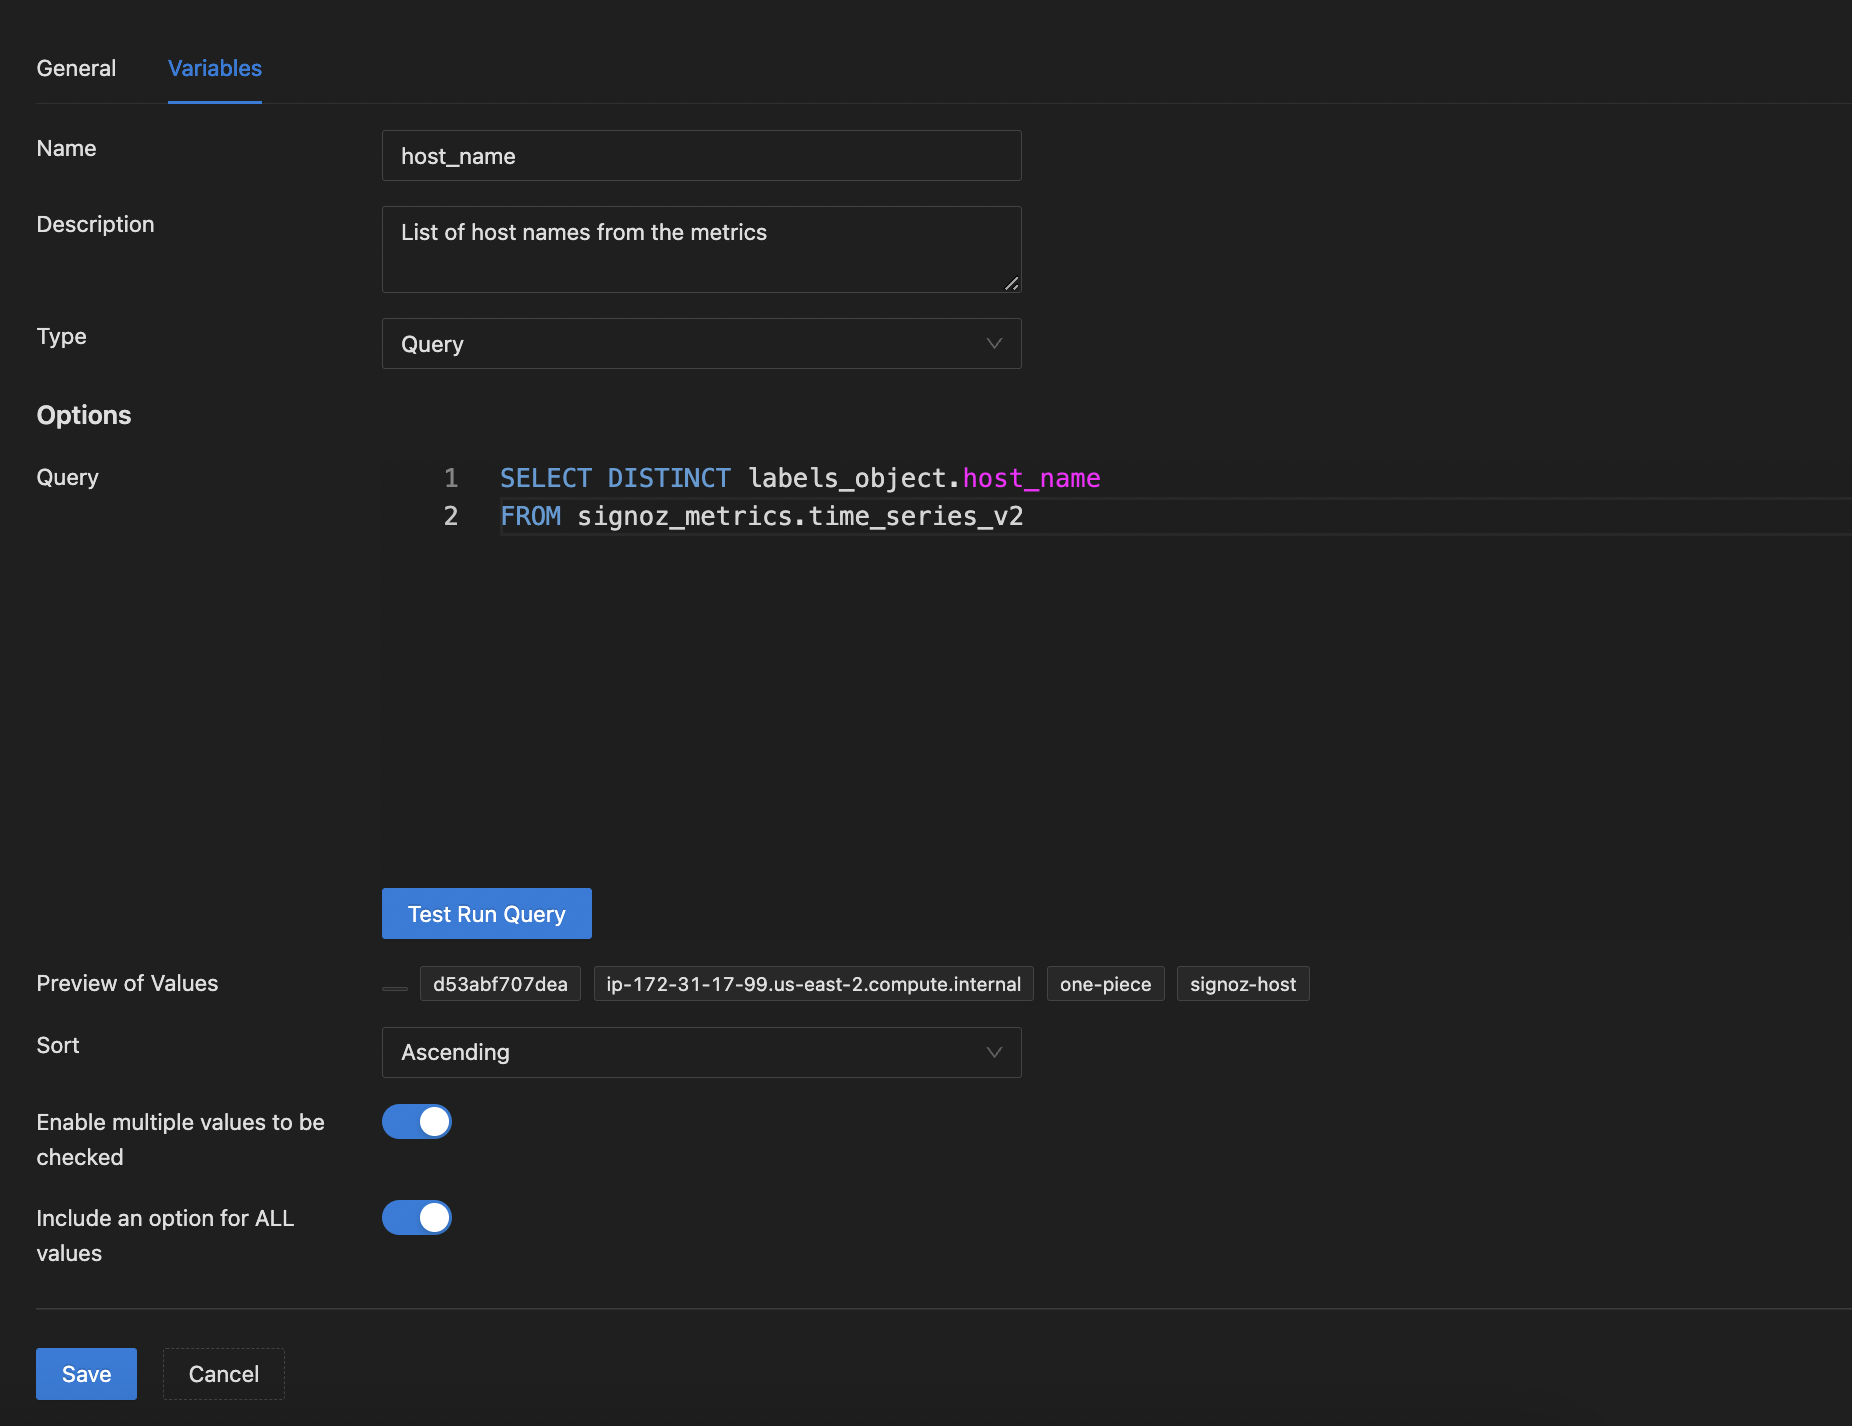
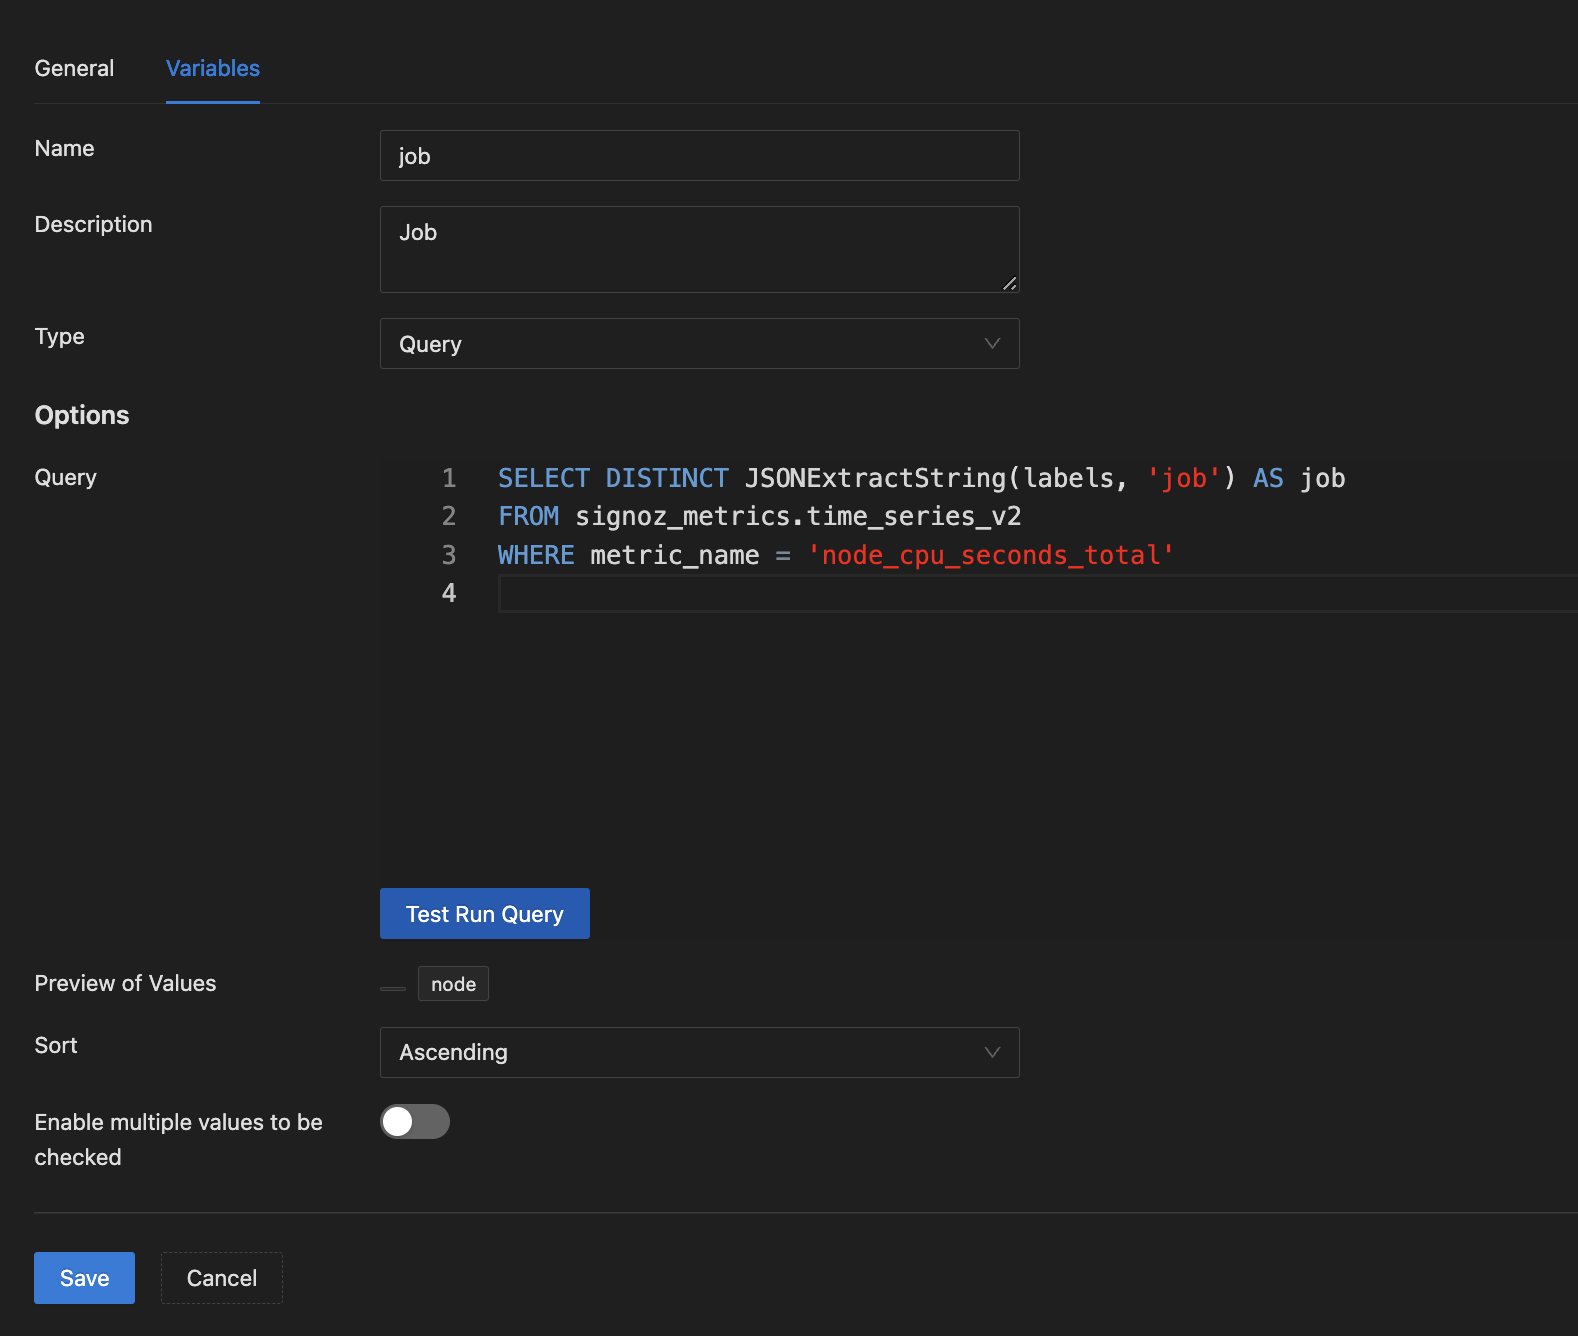
Update manage variables queries, usage and some content (#612)

diff --git a/docs/userguide/manage-variables.md b/docs/userguide/manage-variables.md
@@ -14,66 +14,67 @@ import PrereqsInstrument from '../shared/prereqs-instrument.md'
 
 ## Variables
 
-Variables are now supported for the dashboard panel chart for all three query types. The widget plots can make use of these variables and update the charts dynamically without having to update the query for each value. When the value of the variable changes the refreshed dashboard will reflect the new value. Variables allow users to make interactive dashboards. Variables are most commonly used to avoid hard coding the values for host names, Kubernetes pods, namespaces, etc. Variables are independent for each dashboard. Variables are shown using the dropdowns at the top of the dashboard.
-
-
-## Variables types
-
-SigNoz supports three ways of creating variables: query, custom, and textbox.
-
-1. Query   - A SQL query that can be used to fetch data from ClickHouse server SigNoz configured to use
-2. Custom  - A comma-separated list values as a Variable
-3. Textbox - A free text input field with an optional default value
+Variables are now supported for the dashboard panel chart for all three query types. The widget plots can use these variables and update the charts dynamically without updating the query for each value. When the value of the variable changes, the refreshed dashboard will reflect the new value. Variables allow users to make interactive dashboards. Variables are most commonly used to avoid hard coding the values for host names, Kubernetes pods, namespaces, etc. Variables are independent for each dashboard. Variables are shown using the dropdowns at the top of the dashboard.
 
 ## Add a Variable to a Dashboard
 
 To add a variable to a dashboard, follow the steps below:
 
-1. From the sidebar, choose **Dashboards**.
+1. From the left sidebar, choose **Dashboards**.
 2. Find the dashboard to which you want to add a new variable.
 3. Select **Configure**.
 4. Select **New Variables** from the **Variables** section tab.
 5. Populate the following fields:
     1. **Name**: Name of the variable. This is used in Metrics builder/ClickHouse query/ PromQL later
     2. **Description**: Enter a brief and meaningful description of your variable.
-    3. **Type**: Select the variable type from the list of available choices and the UI changes accordingly.
-    4. _(Optional)_ **Sort**: Sort the values if applicable from the above variable type.
+    3. **Type**: Select the variable type from the list of available choices, and the UI changes accordingly.
+    4. _(Optional)_ **Sort**: Sort the values from the above variable type if applicable.
     5. _(Optional)_ **Enable multiple values to be checked**: Make dropdown multi-select
     6. _(Optional)_ **Include an option for ALL values**: Show the `ALL` option which includes all options from the multi-select dropdown
-6.  When you’ve finished, select the **Save** button.
+6. When you’ve finished, select the **Save** button.
 
-### Examples
 
-The following shows some examples to create a variable with hypothetical scenarios
+## Variables types
 
-1. You want to query the list of host names from the metrics database and use them as a variable
+SigNoz supports three ways of creating variables: query, custom, and textbox.
+
+1. Query   - A SQL query that fetches data from ClickHouse (only supported data source at the time) server SigNoz configured to use
+
+    Example: You want to query the list of jobs from the metrics database and use them as a variable. Any ClickHouse SQL query that returns a column with desired values is valid. For instance, a query to fetch all jobs that are reporting the CPU metric collection would be
+
+    ```sql
+    SELECT DISTINCT JSONExtractString(labels, 'job') AS job
+    FROM signoz_metrics.time_series_v2
+    WHERE metric_name = 'node_cpu_seconds_total'
+    ```
+
+    Follwing image shows above case
 
     ![Variables-with-ClickHouse](../../static/img/docs/var-with-clickhouse-query.png)
 
 
-2. Some list of known endpoints as a variable
-    ![Variables-with-Custom](../../static/img/docs/custom-endpoint-vars.png)
+2. Custom  - A comma-separated list values as a Variable
+
+    Example: It is common to have some attributes with a known and small number of unique values, such as the region or availability zone of the application deployment. The custom variable type allows you to achieve this with comma-delimited values. An example for reference
+
+    ![Variables-with-Custom](../../static/img/docs/custom-regions-vars.png)
 
 
-3. Free text as a variable
+3. Textbox - A free text input field with an optional default value
+
+    Example: Free text as a variable
 
     ![Variables-with-Text](../../static/img/docs/text-box-limit-variable.png)
 
-## Using variables in queries
+## Variable syntax and usage in queries
 
-The following shows some example widget plots using the variables created from the above section
+All metric queries can refer to variables using the go variable templating syntax {{. }}.
 
-1. Metric Builder
+For example, A PromQL query for service request rate using dynamic service selection would be.
 
-    ![Variables-in-MetricsBuilder](../../static/img/docs/query-builder-with-host_name-var.png)
-
-2. ClickHouse Query
-
-    ![Variables-in-ClickHouse](../../static/img/docs/req-rate-chart-with-promql-query-and-var.png)
-
-3. PromQL
-
-    ![Variables-in-PromQL](../../static/img/docs/custom-endpoint-vars.png)
+```
+sum(rate(signoz_calls_total{service_name="{{.service_name}}"}[5m]))
+```
 
 
 ## Get Help
